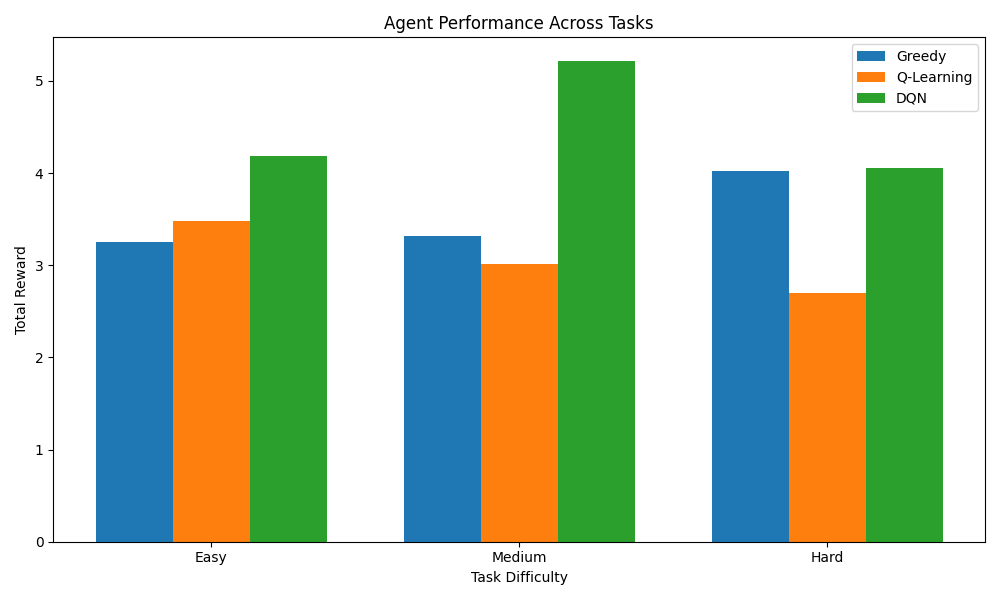
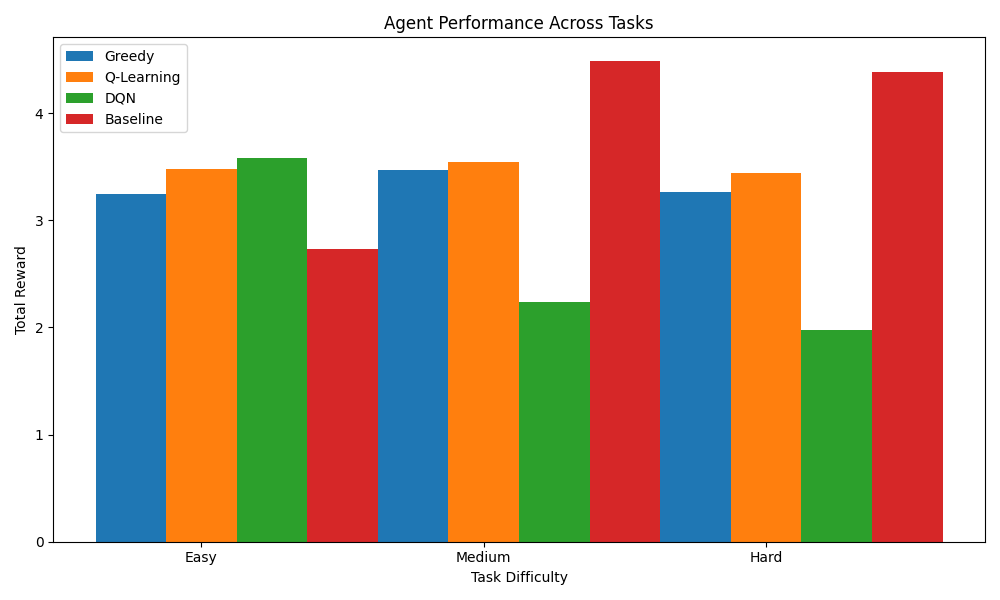
Changing the model

diff --git a/inference.py b/inference.py
@@ -32,8 +32,8 @@ except ImportError:
 
 # ── Config ─────────────────────────────────────────────────────────────────────
 API_KEY = os.getenv("OPENAI_API_KEY") or os.getenv("HF_TOKEN") or os.getenv("API_KEY")
-API_BASE_URL = os.getenv("API_BASE_URL", "https://router.huggingface.co/v1")
-MODEL_NAME   = os.getenv("MODEL_NAME",   "Qwen/Qwen2.5-72B-Instruct")
+API_BASE_URL = os.getenv("API_BASE_URL", "https://api.groq.com/openai/v1")
+MODEL_NAME   = os.getenv("MODEL_NAME",   "llama-3.1-8b-instant")
 BENCHMARK    = "attention_allocation"
 TEMPERATURE  = 0.2
 MAX_TOKENS   = 64

diff --git a/scripts/plot_results.py b/scripts/plot_results.py
@@ -4,6 +4,7 @@ from agents.dqn_agent import dqn_agent, QNetwork
 from env.tasks import task_easy, task_medium, task_hard
 from agents.greedy_agent import greedy_agent
 from agents.q_learning_agent import q_learning_agent
+from agents.baseline_agent import llm_agent
 
 def run_episode(env, agent):
     state = env.reset()
@@ -32,6 +33,7 @@ def plot_results():
         ("Greedy", greedy_agent),
         ("Q-Learning", q_learning_agent),
         ("DQN", lambda state: dqn_agent(state, dqn_model)),
+        ("Baseline", llm_agent),
     ]
 
     results = {}

diff --git a/agents/baseline_agent.py b/agents/baseline_agent.py
@@ -16,7 +16,7 @@ client = OpenAI(
     api_key=os.getenv("HF_TOKEN") or os.getenv("API_KEY"),
     base_url=os.getenv("API_BASE_URL", "https://router.huggingface.co/v1"),
 )
-MODEL_NAME = os.getenv("MODEL_NAME", "Qwen/Qwen2.5-72B-Instruct")
+MODEL_NAME = os.getenv("MODEL_NAME", "llama-3.1-8b-instant")
 
 SYSTEM_PROMPT = textwrap.dedent("""
     You are a content recommendation agent.
